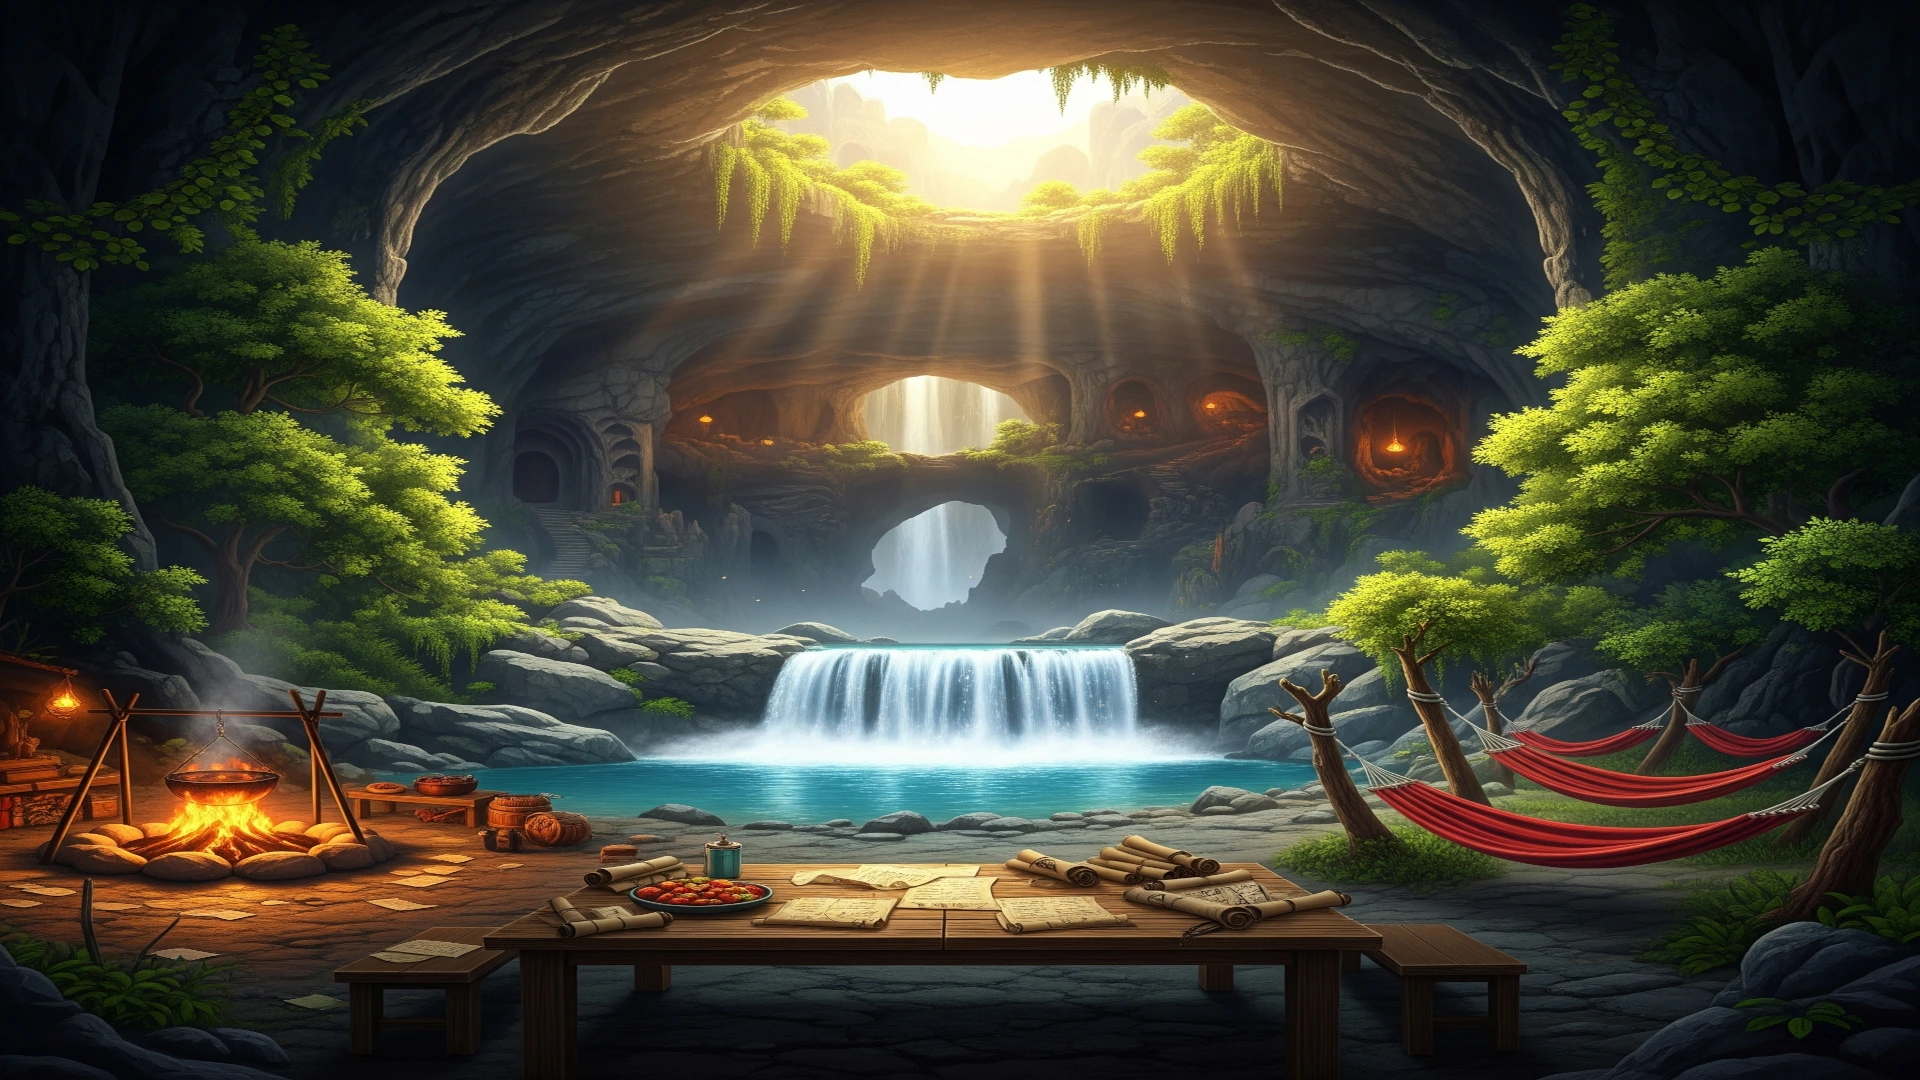
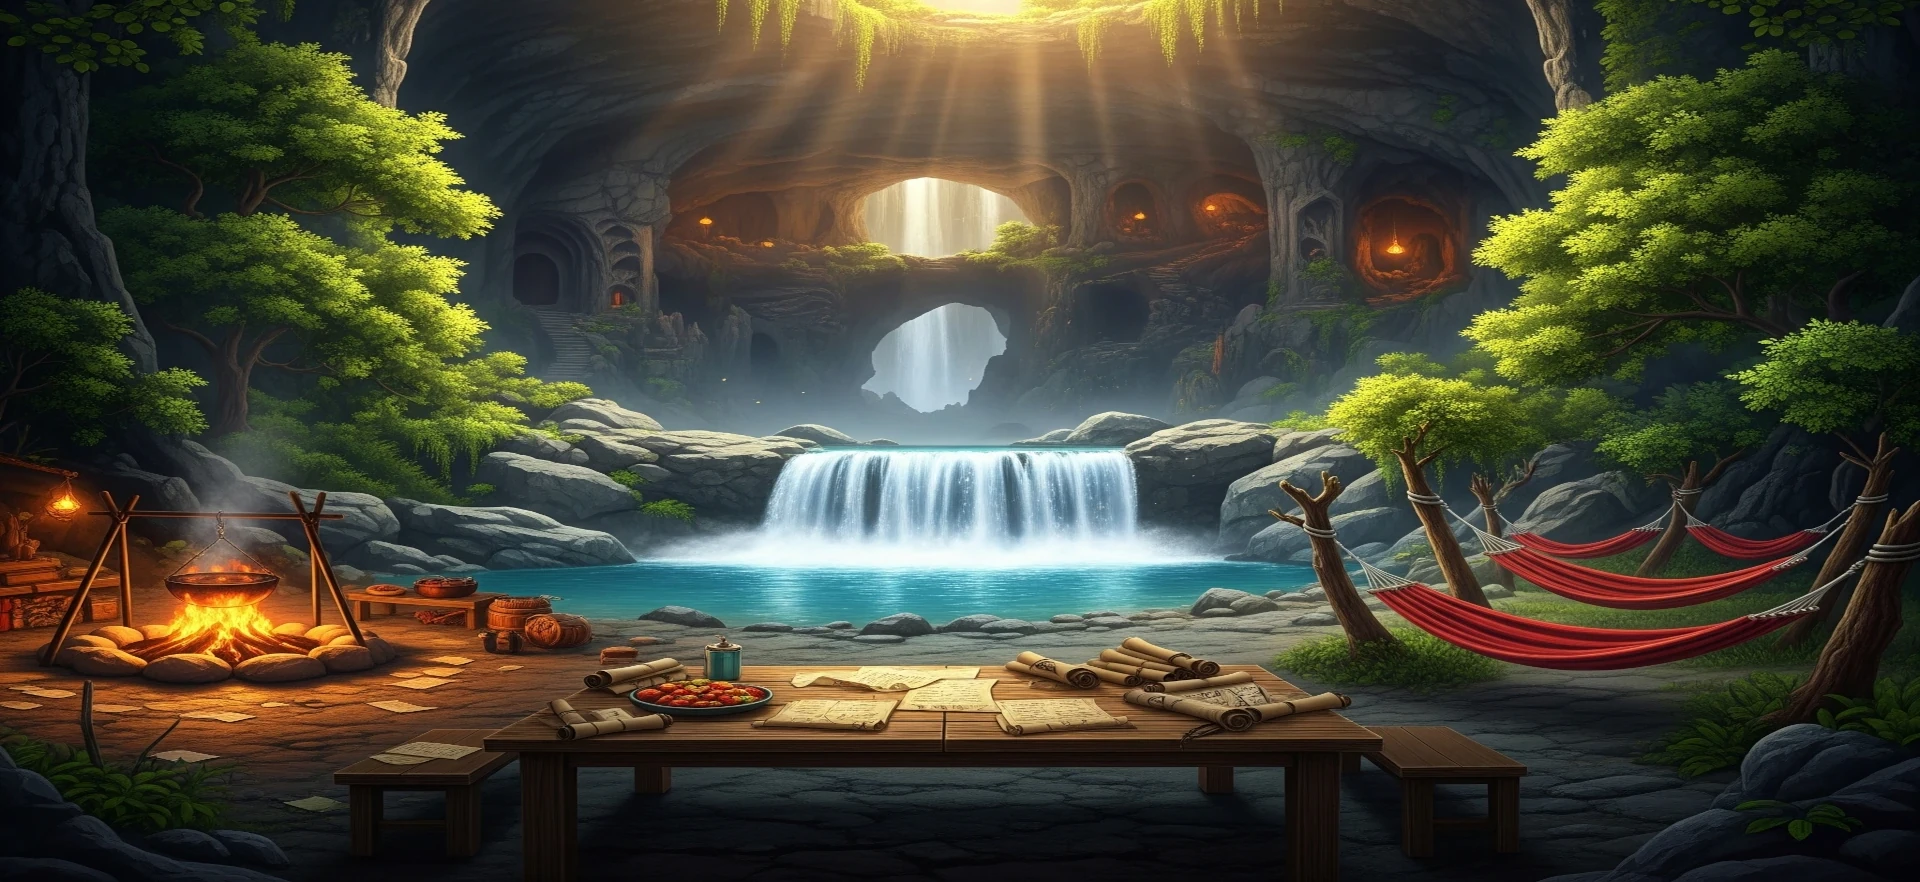
Remove previous work with bar, animations, adding message on home, about content

diff --git a/src/About.jsx b/src/About.jsx
@@ -1,63 +1,21 @@
 import "./About.css";
-import { motion } from "framer-motion";
-import ImageHero from "./images/stickman_showing.webp";
-import ImageAbout from "./images/stickman_cooperation.webp";
-import ImageSkill from "./images/stickman_contact.webp";
-import Navbar from "./Navbar";
-import Header from "./Header";
 
 function About() {
     return (
         <div>
-            <Header />
-            <Navbar />
-                <div class="section hero">
-                    <motion.div 
-                        initial={{ opacity: 0, x: -1000 }}
-                        whileInView={{ opacity: 1, x: 0 }}
-                        viewport={{ once: true, amount: 0.1 }}
-                        transition={{ duration: 1.5, ease: "easeInOut" }}
-                    >
-                        <h1>1st section</h1>
-                        <h2>Passer de l'imaginaire à la réalité.</h2>
-                        <p>Je suis un ingénieur développeur logiciel dans le monde de l'informatique depuis mes 6 ans! Ayant toujours voulu passer derrière l'écran pour faire rêver les utilisateurs, j'ai orienté ma vie vers ce secteur!
-                        Dans cette optique, il est important de comprendre les besoins de la population pour concevoir des sites webs, des applications à leur image. Mes services et optiques vous intéressent? Prenez contact avec moi! Que ce soit pour me connaître, me poser des questions, vous n'avez aucun risque de pris!</p>
-                    </motion.div  >
-                    <img class="imgClass" src={ImageHero} alt="was supposed to have" />
-                </div>
-            
-            
-            
-            <div class="section about">
-                <motion.div 
-                initial={{ opacity: 0, x: 1000 }}
-                whileInView={{ opacity: 1, x: 0 }}
-                viewport={{ once: true, amount: 0.1 }}
-                transition={{ duration: 1.5, ease: "easeInOut" }}
-                >
-                    <h1>2ème section</h1>
-                    <h2>Mon parcours et philosophie</h2>
-                    <p>À travers tout mon parcours académique et professionnel, j'ai pu exercer dans de multiples domaines et maîtriser plusieurs langagues et technologies.
+            <h1>Passer de l'imaginaire à la réalité.</h1>
+                <p>
+                    Je suis un ingénieur développeur logiciel dans le monde de l'informatique depuis mes 6 ans! Ayant toujours voulu passer derrière l'écran pour faire rêver les utilisateurs, j'ai orienté ma vie vers ce secteur!
+                    Dans cette optique, il est important de comprendre les besoins de la population pour concevoir des sites webs, des applications à leur image. Mes services et optiques vous intéressent? Prenez contact avec moi! Que ce soit pour me connaître, me poser des questions, vous n'avez aucun risque de pris!
+                </p>                        
+            <h1>Ma philosophie</h1>
+                <p>
+                    À travers tout mon parcours académique et professionnel, j'ai pu exercer dans de multiples domaines et maîtriser plusieurs langagues et technologies.
                     Aujourd'hui, je peux assumer pouvoir concevoir n'importe quel type de besoin technique que ce soit un site web jusqu'à l'application mobile. Un langage et un framework ne sont qu'une manière de communiquer et s'organiser tels une panoplie d'outils pour un forgeron.
-                    Comprendre et aboutir au besoin d'un client, maximiser la valeur de son produit, le rendre fonctionnel et robuste, telle est ma philosophie.</p>
-                </motion.div>
-                <img class="imgClass" src={ImageAbout} alt="was supposed to have" />
-            </div>
-           
-
-            
-            <div class="section skill">
-                <motion.div 
-                initial={{ opacity: 0, y: 100 }}
-                whileInView={{ opacity: 1, y: 0 }}
-                viewport={{ once: true, amount: 0.1 }}
-                transition={{ duration: 1.5, ease: "easeInOut" }}
-                
-            >
-                <h1>3ème section</h1>
-                <h2>Points majeurs</h2>
+                    Comprendre et aboutir au besoin d'un client, maximiser la valeur de son produit, le rendre fonctionnel et robuste, telle est ma philosophie.
+                </p>
+            <h1>Points majeurs</h1>
                 <ul>
-
                     <li>
                     <h3>Analyse du besoin client</h3>
                     <p>Il est important de mettre en lumière ce que veut comme application et comme fonctionnalités l'utilisateur final!</p>
@@ -88,10 +46,7 @@ function About() {
                     <p>Se répartir les tâches; déléguer une partie de son travail; l'ordonnancer pour aboutir à sa finalité; l'organisation est une clé pour concevoir avec succès une application en tout genre! Combiner avec une forte commmunication avec le client ou les coéquipiers, le résultat ne peut qu'aboutir à une finalité positive.</p>
                     </li>
 
-                </ul>
-                </motion.div>
-                <img class="imgClass" src={ImageSkill} alt="was supposed to have" />
-            </div>        
+                </ul>    
         </div>
     );
 }

diff --git a/src/Home.jsx b/src/Home.jsx
@@ -5,6 +5,7 @@ import "./Home.css";
 import Projects from "./Projects";
 import About from "./About";
 import Contact from "./Contact";
+import { Tooltip } from 'react-tooltip'
 
 const Home = () => {
 
@@ -39,10 +40,14 @@ const Home = () => {
 
     return (
         <div className="wrapper">
-            <img src={ImageBackground} alt="background" className="background" />
-            <div className="highlight firecamp" title="Fire Camp" onClick={() => setOpenScroll("about")}/>
-            <div className="highlight table" title="Projects" onClick={() => setOpenScroll("projects")}/>
-            <div className="highlight beds" title="Beds" onClick={() => setOpenScroll("contact")}/>
+            <div className="welcome-banner">
+                👋 Welcome to my website, visitor. Check the campfire, the table, or the beds to make an action...
+            </div>
+            <img src={ImageBackground} alt="background" className="background" />   
+            <div className="highlight firecamp" onClick={() => setOpenScroll("about")} data-tooltip-id="my-tooltip" data-tooltip-content="Who am I?"/>
+            <div className="highlight table" title="Projects" onClick={() => setOpenScroll("projects")} data-tooltip-id="my-tooltip" data-tooltip-content="Projects"/>
+            <div className="highlight beds" title="Beds" onClick={() => setOpenScroll("contact")} data-tooltip-id="my-tooltip" data-tooltip-content="Wanna contact me?"/>
+            <Tooltip id="my-tooltip" />
             
             {openScroll && (
                 <div className="scroll-overlay">

diff --git a/src/Home.css b/src/Home.css
@@ -2,8 +2,6 @@
     position: relative;
     width: 100%;
     max-width: 100vw;
-    overflow: hidden;
-    aspect-ratio: 16/9;
 }
 
 .background {
@@ -27,23 +25,23 @@
 /* Polygonal clickable zones — adjust coordinates as needed */
 
 .firecamp {
-    top: 63%;
-    left: 4%;
+    top: 57%;
+    left: 3%;
     width: 16%;
     height: 18%;
     clip-path: polygon(50% 0%, 100% 50%, 80% 100%, 20% 100%, 0% 50%);
 }
 
 .table {
-    top: 78%;
+    top: 73%;
     left: 26%;
-    width: 46%;
-    height: 11%;
+    width: 45%;
+    height: 13%;
     clip-path: polygon(10% 20%, 90% 20%, 100% 80%, 0% 80%);
 }
 
 .beds {
-    top: 62%;
+    top: 57%;
     left: 69%;
     width: 29%;
     height: 20%;
@@ -188,4 +186,21 @@ body.modal-open {
   100% {
     transform: translate(-50%, 620%) scale(1);
   }
+}
+
+.welcome-banner {
+  position: absolute;
+  top: 20px;
+  left: 50%;
+  transform: translateX(-50%);
+  background-color: rgba(0, 0, 0, 0.5); /* semi-transparent black */
+  color: #f5f5f5;
+  padding: 10px 20px;
+  border-radius: 8px;
+  font-size: 15px;
+  font-family: Georgia, serif;
+  z-index: 10000;
+  pointer-events: none; /* avoid blocking clicks */
+  text-align: center;
+  z-index: 1;
 }

diff --git a/src/About.css b/src/About.css
@@ -1,40 +1,11 @@
-.section {
-    color: white;
-    text-align: justify;
-    padding: 20px 20px;
-    height: 500px;
-    display: flex;
-    align-items: center;
-    justify-content: space-between;
-    gap: 20px;
-}
-
-.hero {
-    background-color: #2a9d8f;
-
-}
-
-.about {
-    background-color: #264653;
-}
-
-.skill {
-    background-color: #e9c46a;
-    height:auto;
-}
-
 h1 {
     font-size: 48px;
     margin-bottom: 30px;
     text-align: center;
 }
 
-h2 {
-    text-align: center;
-}
-
 p {
-    font-size: 20px;
+    font-size: 18px;
     margin: auto;
     text-align: justify;
 }
